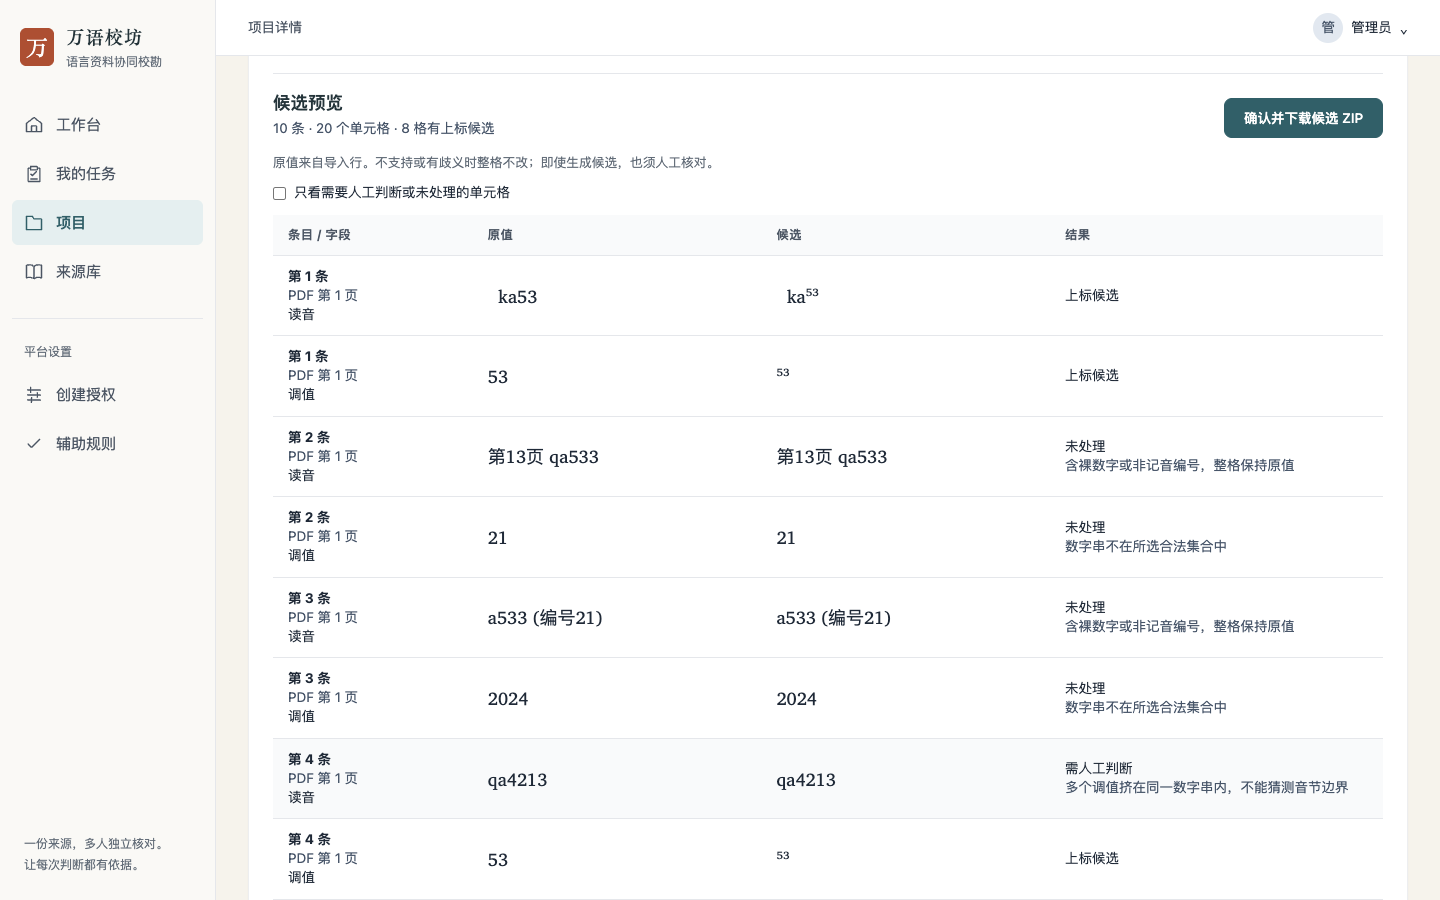
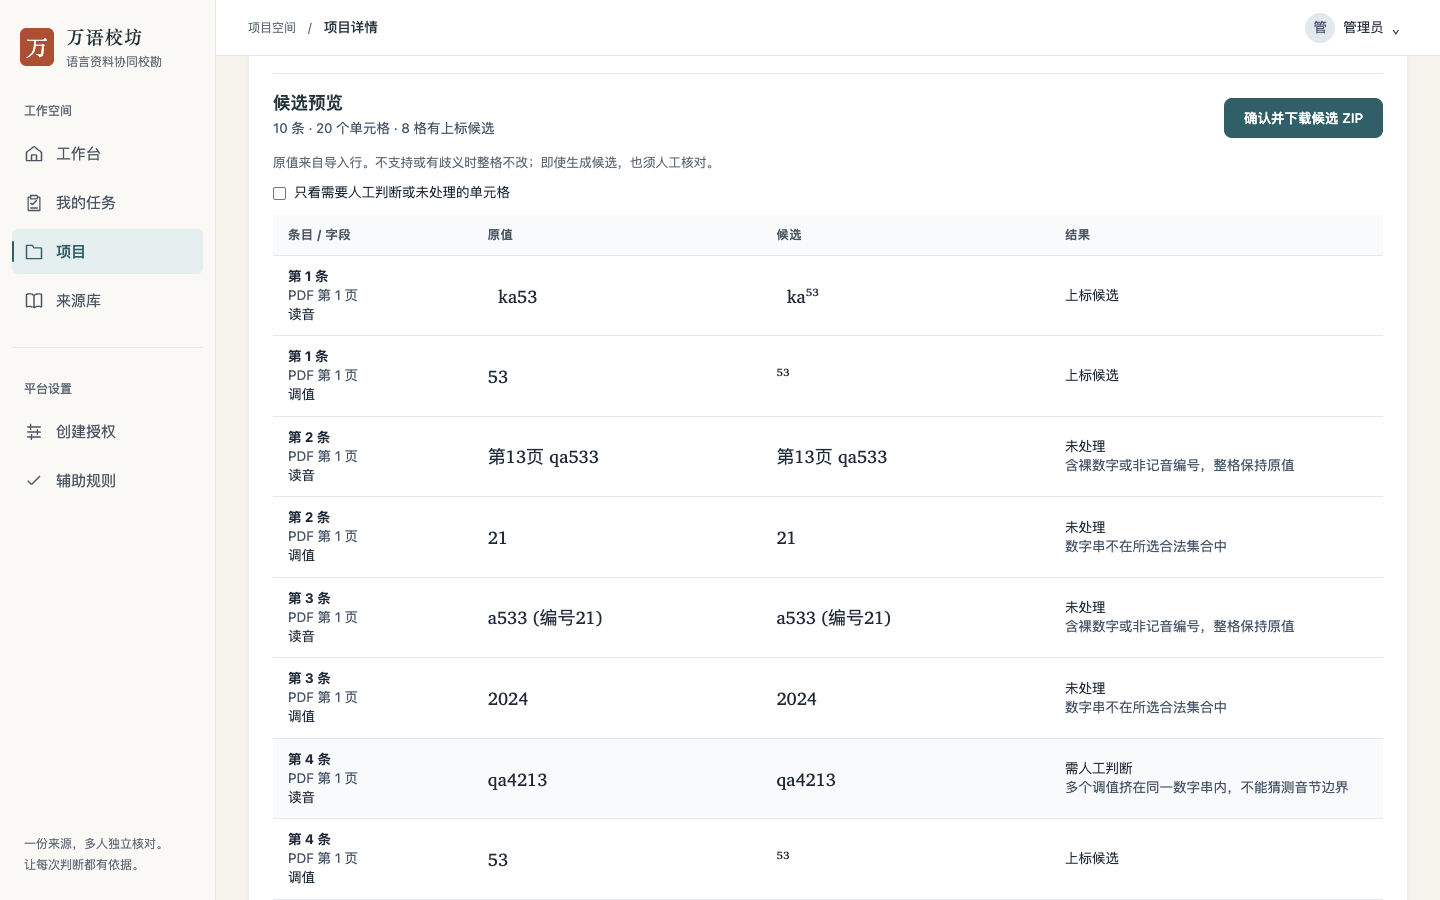
docs: record integrated tone batch acceptance

diff --git a/docs/evidence/tone-superscript-20261108/README.md b/docs/evidence/tone-superscript-20261108/README.md
@@ -11,3 +11,11 @@
 `result.json`由最终浏览器脚本生成。截图及结果的运行时真源在 `output/playwright/tone-batch/`，新脚本已挂到默认workbench组，CI显式要求这三份产物并随frontend-quality-browser artifact上传。复跑入口：`python3 backend/tests/run_frontend_quality_browser.py --only workbench`；本地最终tone脚本由同一harness单独运行，原workbench其他入口已分别通过，累计堆叠仍由发布候选执行一轮。
 
 功能、API和规则限制见[调值上标说明](../../tone-superscript-batch.md)。本次未覆盖项目原位修改，也未进行部署。
+
+## 累计分支补验
+
+在继承 OCR 与 UI 精修的累计实现（产品提交 `6fbfa2b`）上重新执行完整 workbench、components 组，均通过。实际覆盖工作台、条目、加入/继续/只读回看、Review Bundle、导入错误、Reka 焦点/展开保真与调值工具；使用临时真实后端、合成账号与 Edge/Playwright 1.65.0。三份证据由此次完整入口刷新，桌面和手机截图已经视觉复看。
+
+最终 `make check` 通过：Go全包、前端492项、154项工具守卫、9项ops、57项后端守卫、31条迁移up/down/up、格式/ESLint及6组合Compose/OCR检查。生产构建及全历史redacted安全扫描通过。底层scope登记的文档更新未改变产品代码。
+
+本机复跑日志：`/private/tmp/wanyu-final-stack-browser.log`、`/private/tmp/wanyu-final-stack-check.log`、`/private/tmp/wanyu-final-stack-build.log`、`/private/tmp/wanyu-final-stack-gitleaks.log`。远端CI仍以PR当前head为准；真人方言验收、原生手机输入法及上线未执行。
